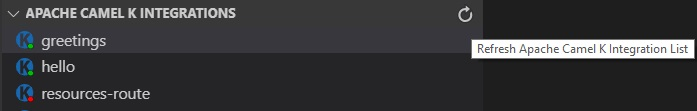
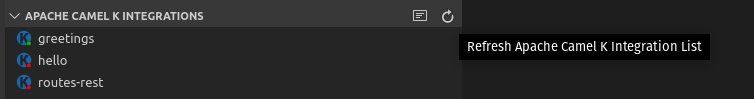
updating changelog and readme with new screenshots and details

diff --git a/README.md b/README.md
@@ -96,7 +96,7 @@ You can start a new Camel K integration with or without additional options such 
 
 When you start a new integration, the extension starts the deployment process with the *kamel run [filename]* command and any options after that.
 
-**Note:** The first time that you publish a new integration, the extension  might take a few moments to propagate through the system to a running state. 
+**Note:** The first time that you publish a new integration, the extension might take a few moments to propagate through the system to a running state. 
 
 To update the state of your currently deployed integrations, hover over the **Apache Camel K Integrations** view and click the **Refresh** button.
 
@@ -210,11 +210,19 @@ Optionally, to disable status bar messages:
 2. Select **Extensions** and then select **Apache Camel K Tooling Extension Settings**.
 3. Uncheck the **Show Status Bar Messages** option.
 
+## Viewing the log for a Apache Camel K Operator
+
+In the background of each Apache Camel K system, there is usually an Operator coordinating the various builders and integrations being spun up. This log will often contain information not found in the other logs (see Viewing the running log and Viewing the Kit Builder Log below for details on opening the other available logs).
+
+![Apache Camel K Integrations view - Follow log](images/camelk-integrations-view-operator-log-action.jpg)
+
+A new view opens. It is named for the running Kubernetes pod where the Operator is running. This log updates as new data is added.
+
 ## Viewing the running log for a published Apache Camel K Integration
 
 If you are running an integration in Dev mode, you can view the logged output for that integration in the **Apache Camel K Output channel**.
 
-If you want to explicitly view the running log for a published integration in a new Output channel, right-click on a running integration and then select the **Follow log for running Apache Camel K Integration** option.
+If you want to explicitly view the running log for a published integration in a new Log view, right-click on a running integration and then select the **Follow log for running Apache Camel K Integration** option.
 
 ![Apache Camel K Integrations view - Follow log](images/camelk-integrations-view-remove-menu.jpg)
 
@@ -228,6 +236,13 @@ Note: By default, `Auto-scroll` is checked and new entries in the log will autom
 
 1. From the **Apache Camel K Integrations** view, right-click the integration that you want to stop.
 2. Select **Remove Apache Camel K Integration**.
+
+## Viewing the Kit Builder Log for an Apache Camel K integration
+
+1. From the **Apache Camel K Integrations** view, right-click the integration that you want to stop.
+2. Select **Follow kit builder log for running Apache Camel K integration**.
+
+A new view opens. It is named for the running pod where the Kit Builder is running. This log updates as new data is added. 
 
 ## Apache Camel K Extension Settings
 

diff --git a/CHANGELOG.md b/CHANGELOG.md
@@ -8,6 +8,8 @@ All notable changes to the "vscode-camelk" extension will be documented in this 
 - Change log functionality from Output channels to separate log windows that can be moved and placed in the display
 - Add the ability to auto-scroll with a log window or turn it off so it remains at a particular location
 - Add an extension preference to close an open log window if the integration is removed
+- Add a new button to the Integrations view that opens the Apache Camel K Operator log
+- Add a new context menu to published integrations in the Integrations view to open the builder log
 
 ## 0.0.12
 
